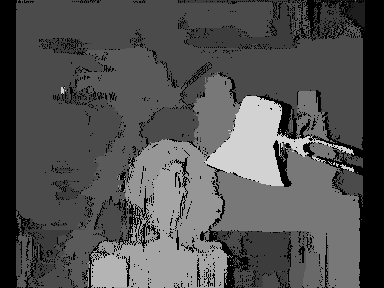
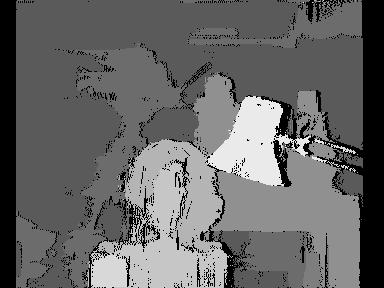
Fix bad pixel ratio

diff --git a/accuracy_calculation/Bad_ratio.py b/accuracy_calculation/Bad_ratio.py
@@ -5,8 +5,8 @@ def Bad_ratio(GT_image, test_image, depth, threshold):
         raise ValueError("Different Size")
     
     height, width = GT_image.shape
-    crop_GT_image = GT_image[depth:height-depth,depth:width-depth]
-    crop_test_image = test_image[depth:height-depth,depth:width-depth]* int(255 / depth)
+    crop_GT_image = GT_image[depth:height-depth,depth:width-depth] * float(depth / 255)
+    crop_test_image = test_image[depth:height-depth,depth:width-depth]
     
     difference = np.abs(crop_GT_image - crop_test_image)
     bad_pixels = difference > threshold

diff --git a/README.md b/README.md
@@ -100,6 +100,8 @@ python main.py --costmethod SAD --costwindow 3 --lrcheck True
 ```bash
 python main.py --costmethod ASW --costwindow 33 --treefilter True --lrcheck True
 ```
+![RMSE](https://img.shields.io/badge/RMSE-2.085-brightgreen)
+![Bad Ratio](https://img.shields.io/badge/Bad%20Ratio-0.159-red)
 
 <div style="display: flex; justify-content: center;">
     <img src="assets/Tree_filter_LR_check_ASW_aggregated_disparity.png" alt="Image 1" style="height: 200px;"/>
@@ -109,6 +111,8 @@ python main.py --costmethod ASW --costwindow 33 --treefilter True --lrcheck True
 ```bash
 python main.py --costmethod ASW --costwindow 33 --midfilter 5
 ```
+![RMSE](https://img.shields.io/badge/RMSE-2.039-brightgreen)
+![Bad Ratio](https://img.shields.io/badge/Bad%20Ratio-0.156-red)
 
 <div style="display: flex; justify-content: center;">
     <img src="assets/Mid_filter_ASW_aggregated_disparity.png" alt="Image 1" style="height: 200px;"/>
@@ -119,7 +123,8 @@ ASW + Left Right Consistency Check + Tree Filtering + Weighted Median Filter
 ```bash
 python main.py --costmethod ASW --costwindow 33 --lrcheck True --treefilter True --midfilter 5 
 ```
-
+![RMSE](https://img.shields.io/badge/RMSE-2.038-brightgreen)
+![Bad Ratio](https://img.shields.io/badge/Bad%20Ratio-0.152-red)
 <div style="display: flex; justify-content: center;">
     <img src="assets/Mid_filter_Tree_filter_LR_check_ASW_aggregated_disparity.png" alt="Image 1" style="height: 200px;"/>
 </div>
